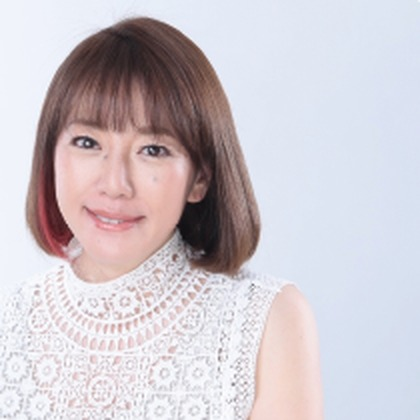
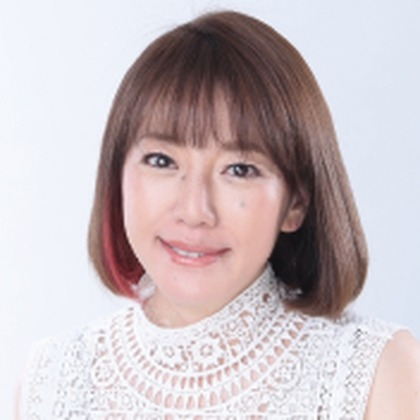
Add files via upload

diff --git a/index.html b/index.html
@@ -154,7 +154,7 @@ button{font:inherit;color:inherit}
 @media (max-width:420px){.info div{grid-template-columns:1fr;gap:0}}
 
 .pphoto{width:120px;height:120px;border-radius:50%;object-fit:cover;border:3px solid #fff;box-shadow:0 0 0 2px var(--gold),0 8px 20px rgba(80,40,50,.10)}@media(min-width:700px){.pphoto{width:150px;height:150px}}.pic{margin:0}.pic img{display:block;width:100%;max-width:560px;margin:0 auto;height:auto;border-radius:18px;box-shadow:0 8px 24px rgba(80,40,50,.08)}.pic.photo img{max-width:420px;margin:0 auto;border-radius:50%;aspect-ratio:1/1;object-fit:cover}.pic figcaption{font-size:.8rem;color:var(--muted);text-align:center;margin-top:8px}
-.prof{display:grid;grid-template-columns:auto 1fr;gap:16px;align-items:center}
+.prof{display:grid;grid-template-columns:1fr;gap:12px;justify-items:center;text-align:center}.prof ul{text-align:left;width:100%}
 .mono{width:76px;height:76px;border-radius:50%;background:linear-gradient(145deg,#F6DCE1,#EFE1CF);display:grid;place-items:center;font-family:var(--serif);font-style:italic;color:var(--rose-d);font-size:1.5rem;border:2px solid #fff;box-shadow:var(--shadow)}
 .prof .rl{font-size:.75rem;color:var(--gold);letter-spacing:.15em}
 .prof .nm{font-family:var(--serif);font-size:1.35rem;line-height:1.3}
